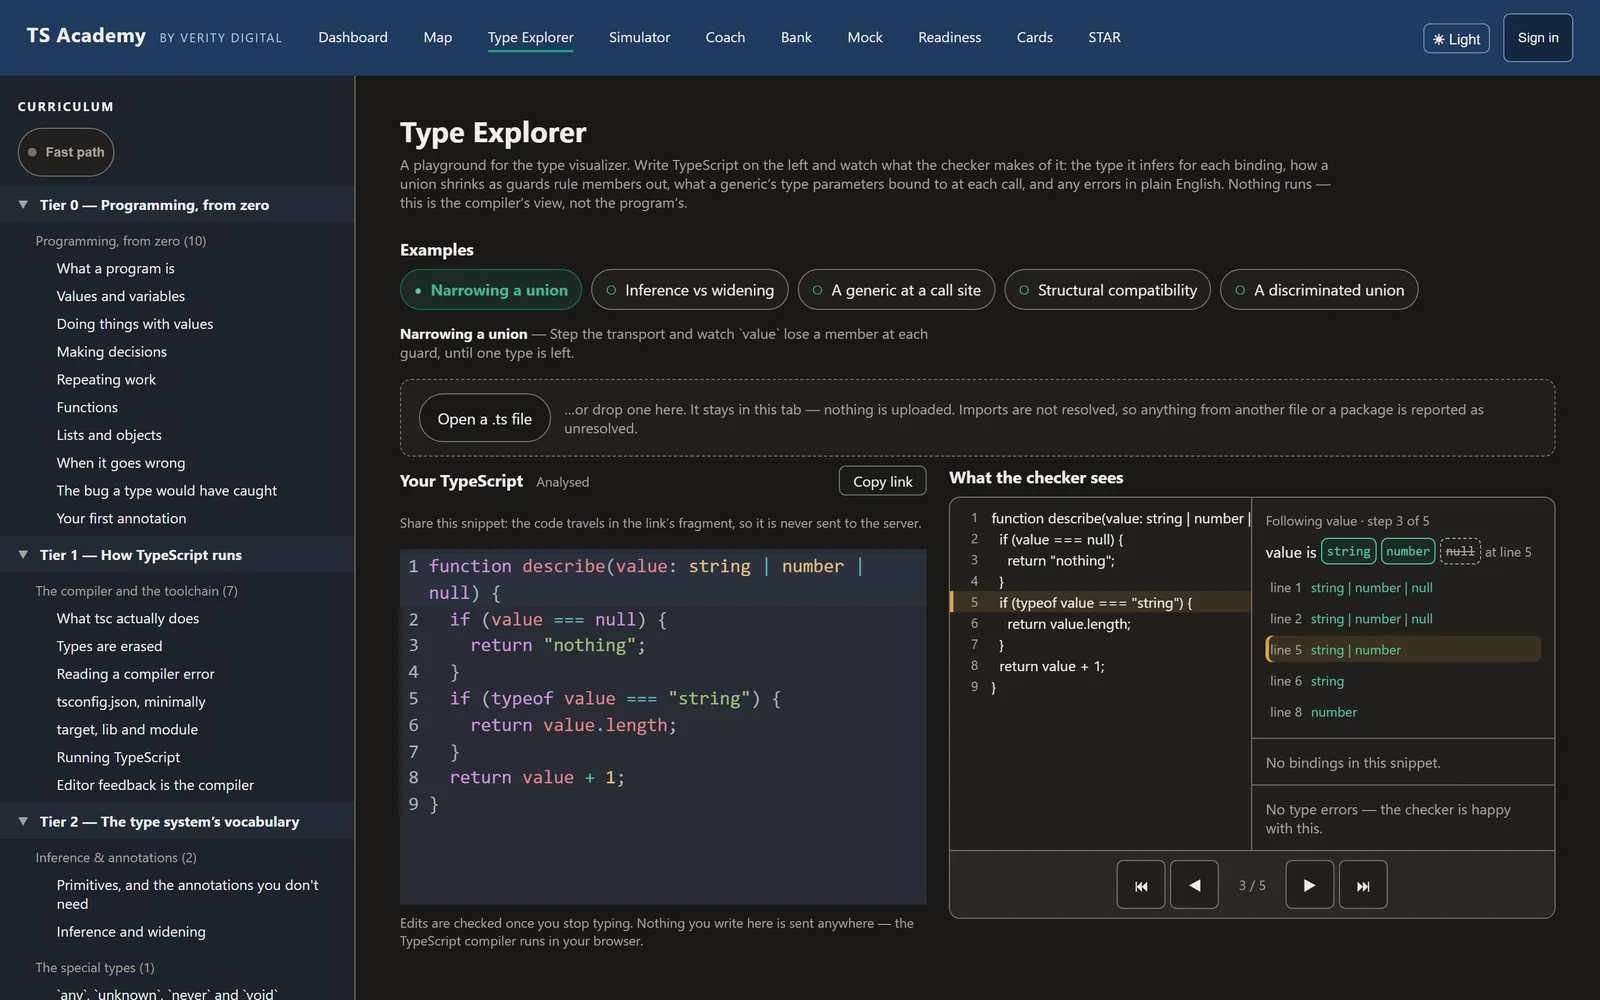
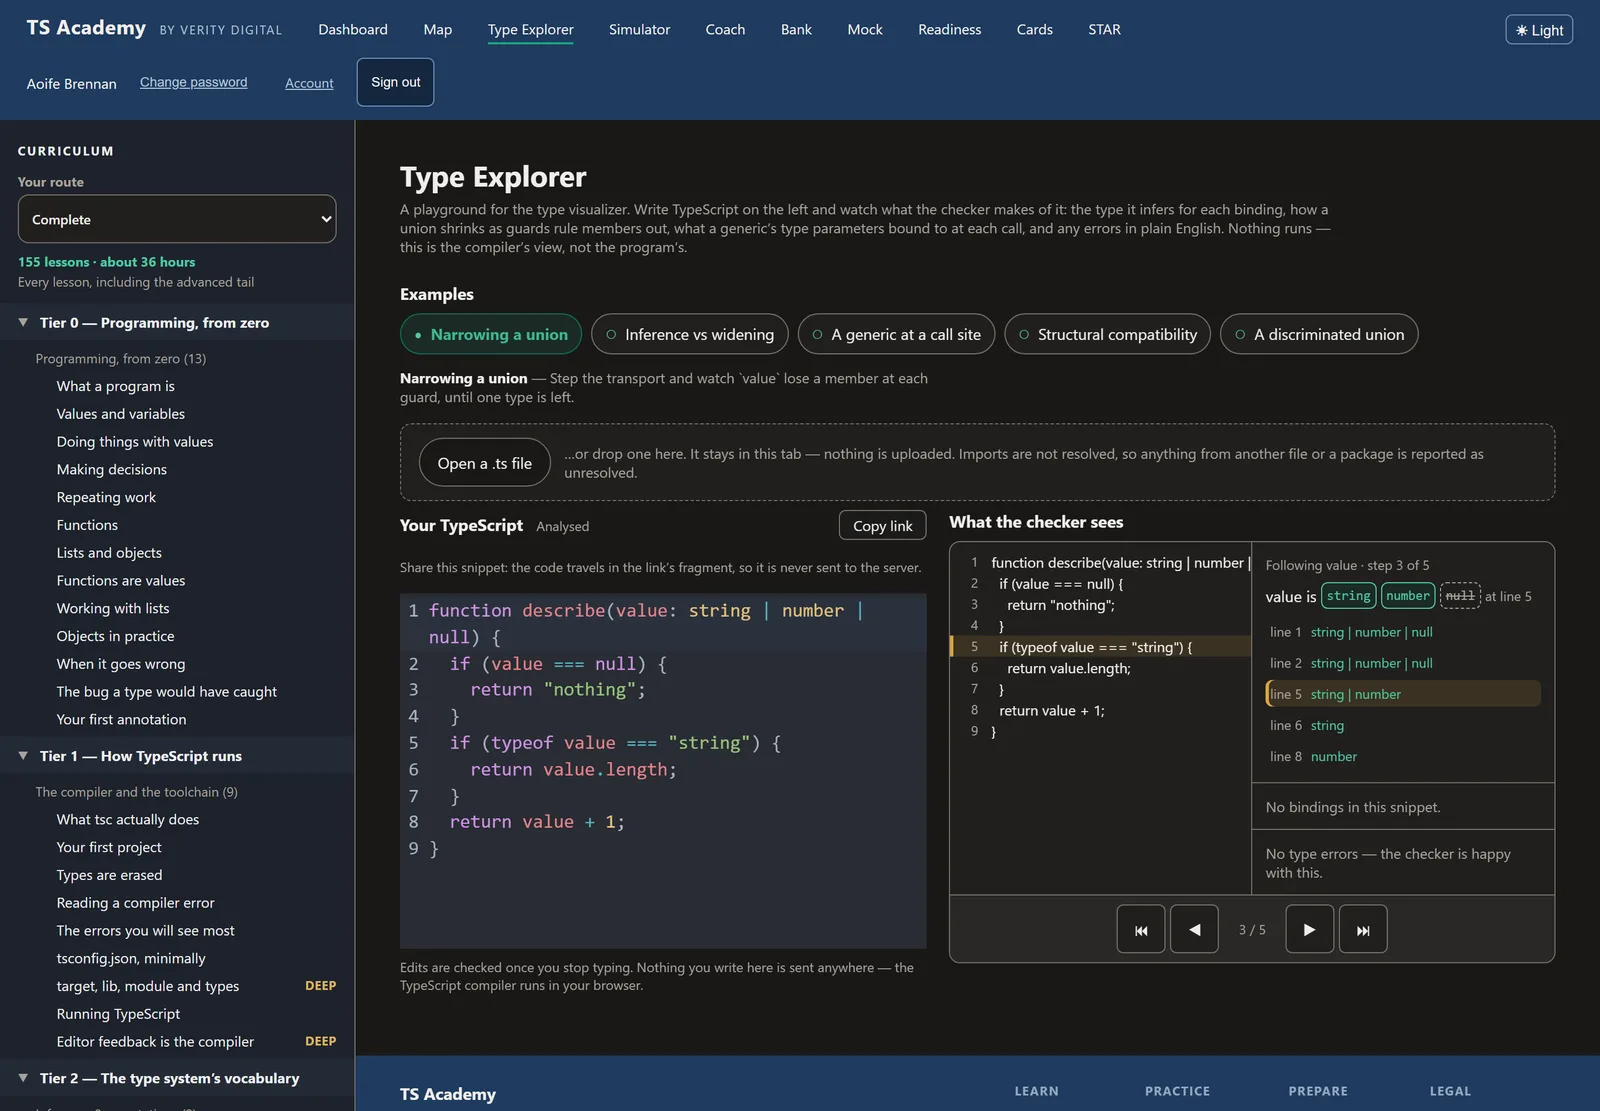
docs: image grid, add Grand Stay PERN, refresh TS Academy screenshot (#1)

diff --git a/README.md b/README.md
@@ -25,13 +25,11 @@ Verity Digital is my sole-trader business. No client engagements have been deliv
 | **TS Academy** | Built · runs locally by design | TypeScript learning platform with an in-browser Type Explorer that runs the real TypeScript compiler to show inferred types and narrowing. |
 | [**JS Academy**](https://veritydigital.ie/case-studies/js-academy) | Built · runs locally by design | JavaScript learning platform built around a custom step-through visualiser showing the call stack, closures, heap and a complexity meter. |
 
-[![Verity Tender Radar: scored procurement notices, each with the reason it surfaced](https://raw.githubusercontent.com/MiroTadej/mirotadej/main/screenshots/tender-radar.webp)](https://veritydigital.ie/case-studies/tender-radar)
-
-[![Verity Digital: the live business platform home page](https://raw.githubusercontent.com/MiroTadej/mirotadej/main/screenshots/verity-digital.webp)](https://veritydigital.ie/case-studies/consultancy-platform)
-
-[![GrandStay.NET: the admin overview, served by the .NET API to the original React client](https://raw.githubusercontent.com/MiroTadej/mirotadej/main/screenshots/grandstay-dotnet.webp)](https://veritydigital.ie/case-studies/grandstay-dotnet)
-
-![TS Academy: the Type Explorer showing narrowing, read from the real TypeScript compiler](https://raw.githubusercontent.com/MiroTadej/mirotadej/main/screenshots/ts-academy.webp)
+<table>
+<tr><td width="50%" valign="top"><a href="https://veritydigital.ie/case-studies/tender-radar"><img src="https://raw.githubusercontent.com/MiroTadej/mirotadej/main/screenshots/tender-radar.webp" alt="Verity Tender Radar: scored procurement notices, each with the reason it surfaced" width="100%"></a><br><sub><b>Verity Tender Radar · live</b></sub></td><td width="50%" valign="top"><a href="https://veritydigital.ie/case-studies/consultancy-platform"><img src="https://raw.githubusercontent.com/MiroTadej/mirotadej/main/screenshots/verity-digital.webp" alt="Verity Digital: the live business platform home page" width="100%"></a><br><sub><b>Verity Digital · live</b></sub></td></tr>
+<tr><td width="50%" valign="top"><a href="https://veritydigital.ie/case-studies/grandstay-dotnet"><img src="https://raw.githubusercontent.com/MiroTadej/mirotadej/main/screenshots/grandstay-dotnet.webp" alt="GrandStay.NET: the admin overview, served by the .NET API to the original React client" width="100%"></a><br><sub><b>GrandStay.NET · C# port</b></sub></td><td width="50%" valign="top"><a href="https://veritydigital.ie/case-studies/hotel-booking-platform"><img src="https://raw.githubusercontent.com/MiroTadej/mirotadej/main/screenshots/grand-stay-pern.webp" alt="Grand Stay (PERN): the admin occupancy board with room grid and room detail" width="100%"></a><br><sub><b>Grand Stay (PERN) · occupancy board</b></sub></td></tr>
+<tr><td width="50%" valign="top"><img src="https://raw.githubusercontent.com/MiroTadej/mirotadej/main/screenshots/ts-academy.webp" alt="TS Academy: the Type Explorer showing narrowing, read from the real TypeScript compiler" width="100%"><br><sub><b>TS Academy · Type Explorer</b></sub></td><td width="50%"></td></tr>
+</table>
 
 ---
 
